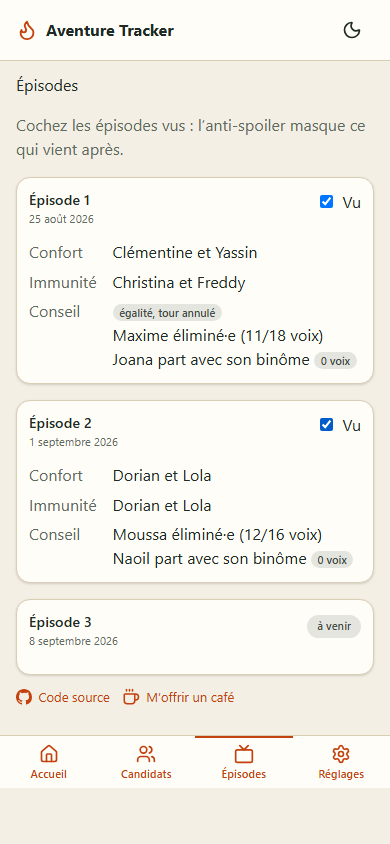
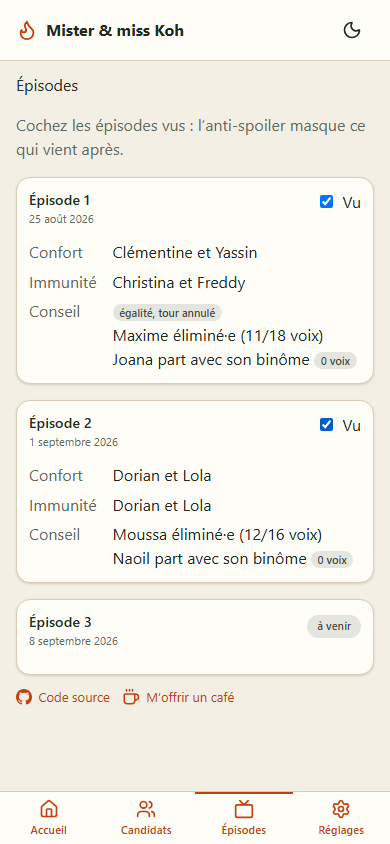
feat(interface): Mister & miss Koh, barre basse fixe, filtre et regroupement (#6)
Quatre demandes, quatre changements.

L'APPLICATION S'APPELLE « Mister & miss Koh » — en-tête, titre de page,
manifeste, à-propos, README. Le `short_name` est « Mister & miss » :
c'est ce que l'écran d'accueil affiche sous l'icône, et au-delà d'une
douzaine de caractères le système tronque.

LA BARRE BASSE EST FIXE. Elle ne l'était pas : le socle laisse
`[data-dwc=bottom-nav]` en `position: relative` et le dit — toutes les
apps n'en font pas une barre d'onglets. La coquille réservait déjà sa
hauteur en `padding-bottom`, ce qui rendait le défaut discret. Ici, la
barre est la navigation principale, et une navigation qui défile n'en est
plus une.

FILTRE PAR STATUT sur les candidats : tous, en jeu, sorti·e. Il se
combine avec la recherche par prénom.

REGROUPEMENT PAR DUO OU PAR TRIBU, selon ce que la saison EST. C'est une
particularité d'édition, pas une préférence d'affichage, et la question
se tranche sur les données : un tour de genre `linked` n'existe que là où
les destins sont liés. Une saison ordinaire n'en produit aucun et retombe
sur ses tribus de couleur. `groupingOf` le lit, avec ses tests.

Un duo n'apparaît qu'une fois RÉVÉLÉ par un départ, et pas avant
l'épisode qui l'a révélé — la source ne liste les duos nulle part. Les
autres se rangent sous « Duo non révélé », qui n'est pas un aveu de
manque mais l'état réel de ce qu'on sait.

Les captures d'installation sont refaites : elles portaient l'ancien nom.

diff --git a/src/features/contestants/ContestantsScreen.tsx b/src/features/contestants/ContestantsScreen.tsx
@@ -7,6 +7,76 @@ import { EmptyState } from '@mister-guiiug/dev-pwa-config/react/empty-state';
 import { useAppStore } from '../../store/useAppStore';
 import { useSpoilerLimit } from '../../hooks/useSpoilerLimit';
 import { inGame, lastAiredEpisode } from '../../domain/stats';
+import { groupingOf } from '../../domain/rules';
+import { isSpoiler } from '../../domain/spoiler';
+import type { Contestant, Referential } from '../../domain/referential';
+
+type Status = 'tous' | 'en-jeu' | 'sorti';
+
+interface Row extends Contestant {
+  inGame: boolean;
+  favorite: boolean;
+}
+
+interface Group {
+  key: string;
+  label: string;
+  rows: Row[];
+}
+
+/**
+ * Les groupes de l'édition suivie.
+ *
+ * PAR DUO OU PAR TRIBU, selon ce que la saison est — `groupingOf` le lit dans
+ * les données. Un duo n'apparaît que s'il a été RÉVÉLÉ par un départ, et pas
+ * avant l'épisode qui l'a révélé : la source ne liste les duos nulle part, on
+ * ne les connaît qu'a posteriori, et les afficher plus tôt divulgâcherait ce
+ * départ. Les autres se rangent sous « Duo non révélé », qui n'est pas un aveu
+ * de manque mais l'état réel de ce qu'on sait.
+ */
+function groupsOf(ref: Referential, rows: Row[], limit: number): Group[] {
+  const byId = new Map(rows.map(r => [r.id, r]));
+
+  if (groupingOf(ref) === 'pair') {
+    const groups: Group[] = [];
+    const placed = new Set<string>();
+
+    for (const pair of ref.pairs) {
+      if (isSpoiler(pair.revealEpisodeNumber, limit)) continue;
+      const members = pair.memberIds
+        .map(id => byId.get(id))
+        .filter((r): r is Row => r !== undefined);
+      if (members.length === 0) continue;
+      for (const m of members) placed.add(m.id);
+      groups.push({
+        key: pair.id,
+        label: pair.memberIds
+          .map(id => ref.contestants.find(c => c.id === id)?.displayName ?? '?')
+          .join(' et '),
+        rows: members,
+      });
+    }
+
+    const rest = rows.filter(r => !placed.has(r.id));
+    if (rest.length > 0) {
+      groups.push({ key: 'duo-inconnu', label: 'Duo non révélé', rows: rest });
+    }
+    return groups;
+  }
+
+  const groups: Group[] = [];
+  for (const team of ref.teams) {
+    const members = rows.filter(r => r.teamId === team.id);
+    if (members.length > 0) {
+      groups.push({ key: team.id, label: team.name, rows: members });
+    }
+  }
+  const rest = rows.filter(r => !r.teamId);
+  if (rest.length > 0) {
+    groups.push({ key: 'sans-tribu', label: 'Sans tribu', rows: rest });
+  }
+  return groups;
+}
 
 export function ContestantsScreen() {
   const referential = useAppStore(s => s.referential);
@@ -14,70 +84,97 @@ export function ContestantsScreen() {
   const toggleFavorite = useAppStore(s => s.toggleFavorite);
   const limit = useSpoilerLimit();
   const [query, setQuery] = useState('');
+  const [status, setStatus] = useState<Status>('tous');
 
-  const rows = useMemo(() => {
+  const groups = useMemo(() => {
     if (!referential) return [];
     const upTo = Math.min(limit, lastAiredEpisode(referential));
     const still = new Set(inGame(referential, upTo));
     const q = query.trim().toLowerCase();
-    return referential.contestants
-      .filter(c => !q || c.displayName.toLowerCase().includes(q))
+    const rows: Row[] = referential.contestants
       .map(c => ({
         ...c,
         inGame: still.has(c.id),
         favorite: favorites.includes(c.id),
-      }));
-  }, [referential, favorites, limit, query]);
+      }))
+      .filter(c => !q || c.displayName.toLowerCase().includes(q))
+      .filter(
+        c => status === 'tous' || (status === 'en-jeu' ? c.inGame : !c.inGame)
+      );
+    return groupsOf(referential, rows, limit);
+  }, [referential, favorites, limit, query, status]);
 
   if (!referential) return null;
+
+  const total = groups.reduce((n, g) => n + g.rows.length, 0);
+  // Un seul groupe qui contient tout le monde n'apprend rien : on le tait.
+  const showHeadings = groups.length > 1;
 
   return (
     <div className="stack">
       <h2>Candidats</h2>
-      <label className="field">
-        <span>Filtrer</span>
-        <input
-          type="search"
-          value={query}
-          onChange={e => setQuery(e.target.value)}
-          placeholder="Un prénom…"
-          autoComplete="off"
-        />
-      </label>
-      {rows.length === 0 ? (
+      <div className="filters">
+        <label className="field">
+          <span>Filtrer</span>
+          <input
+            type="search"
+            value={query}
+            onChange={e => setQuery(e.target.value)}
+            placeholder="Un prénom…"
+            autoComplete="off"
+          />
+        </label>
+        <label className="field">
+          <span>Statut</span>
+          <select
+            value={status}
+            onChange={e => setStatus(e.target.value as Status)}
+          >
+            <option value="tous">Tous</option>
+            <option value="en-jeu">En jeu</option>
+            <option value="sorti">Sorti·e</option>
+          </select>
+        </label>
+      </div>
+      {total === 0 ? (
         <EmptyState
           title="Aucun candidat"
-          description="Aucun nom ne correspond."
+          description="Aucun nom ne correspond à ce filtre."
         />
       ) : (
-        <ul className="list">
-          {rows.map(c => (
-            <li key={c.id} className="row">
-              <Link to={`/candidats/${c.id}`}>{c.displayName}</Link>
-              <Badge tone={c.inGame ? 'success' : 'muted'} size="xs">
-                {c.inGame ? 'en jeu' : 'sorti·e'}
-              </Badge>
-              <Button
-                variant="ghost"
-                size="sm"
-                iconOnly
-                aria-label={
-                  c.favorite
-                    ? `Retirer ${c.displayName} des favoris`
-                    : `Ajouter ${c.displayName} aux favoris`
-                }
-                aria-pressed={c.favorite}
-                onClick={() => toggleFavorite(c.id)}
-              >
-                <Star
-                  size={18}
-                  aria-hidden
-                  fill={c.favorite ? 'currentColor' : 'none'}
-                />
-              </Button>
-            </li>
-          ))}
-        </ul>
+        groups.map(group => (
+          <section key={group.key}>
+            {showHeadings && <h3 className="group-title">{group.label}</h3>}
+            <ul className="list">
+              {group.rows.map(c => (
+                <li key={c.id} className="row">
+                  <Link to={`/candidats/${c.id}`}>{c.displayName}</Link>
+                  <Badge tone={c.inGame ? 'success' : 'muted'} size="xs">
+                    {c.inGame ? 'en jeu' : 'sorti·e'}
+                  </Badge>
+                  <Button
+                    variant="ghost"
+                    size="sm"
+                    iconOnly
+                    aria-label={
+                      c.favorite
+                        ? `Retirer ${c.displayName} des favoris`
+                        : `Ajouter ${c.displayName} aux favoris`
+                    }
+                    aria-pressed={c.favorite}
+                    onClick={() => toggleFavorite(c.id)}
+                  >
+                    <Star
+                      size={18}
+                      aria-hidden
+                      fill={c.favorite ? 'currentColor' : 'none'}
+                    />
+                  </Button>
+                </li>
+              ))}
+            </ul>
+          </section>
+        ))
       )}
     </div>
   );

diff --git a/src/styles.css b/src/styles.css
@@ -82,7 +82,22 @@ a {
   min-height: 100dvh;
   display: flex;
   flex-direction: column;
-  padding-bottom: 4.5rem; /* la barre basse */
+  padding-bottom: 4.5rem; /* la place que la barre fixe occupe */
+}
+
+/* La barre basse est la navigation PRINCIPALE : elle doit rester atteignable
+   sans remonter la page. Le socle la laisse en `position: relative` et le dit
+   — « non stylé : cibler [data-dwc=bottom-nav] » — parce que toutes les apps
+   n'en font pas une barre d'onglets. Ici, si.
+
+   Le `padding-bottom` de la coquille réserve déjà sa hauteur, sans quoi la
+   barre masquerait la fin de chaque écran. */
+[data-dwc='bottom-nav'] {
+  position: fixed;
+  inset-inline: 0;
+  bottom: 0;
+  z-index: 20;
+  background: var(--surface);
 }
 
 [data-dwc='app-header'] {
@@ -242,4 +257,23 @@ a {
   border-left: 3px solid var(--warn);
   background: color-mix(in srgb, var(--warn) 10%, var(--surface));
   border-radius: 0 var(--radius) var(--radius) 0;
+}
+
+/* Deux filtres sur une ligne quand la place le permet, l'un sous l'autre
+   sinon : un `select` étroit à côté d'un champ de recherche est illisible. */
+.filters {
+  display: flex;
+  flex-wrap: wrap;
+  gap: 0.75rem;
+}
+
+.filters .field {
+  flex: 1 1 12rem;
+}
+
+.group-title {
+  margin: 1.25rem 0 0.4rem;
+  font-size: 0.95rem;
+  font-weight: 700;
+  color: var(--text-muted);
 }

diff --git a/src/domain/rules.test.ts b/src/domain/rules.test.ts
@@ -1,6 +1,6 @@
 import { describe, expect, it } from 'vitest';
 import { DEMO_REFERENTIAL } from '../backend/demo';
-import { linkedDepartures, ruleApplies } from './rules';
+import { groupingOf, linkedDepartures, ruleApplies } from './rules';
 import type { Departure, Referential } from './referential';
 
 // Donnée fictive de démonstration.
@@ -96,5 +96,22 @@ describe('linkedDepartures — la règle est lue, jamais présumée', () => {
   it('un binôme déjà sorti ne repart pas une seconde fois', () => {
     // Dans le référentiel de démonstration, Hina est déjà partie à l'épisode 1.
     expect(linkedDepartures(ref, voteOut('Gaël', 1))).toEqual([]);
+  });
+});
+
+describe('groupingOf', () => {
+  it('une saison à destins liés se regroupe par DUO', () => {
+    // Le tour `linked` n'existe que là où le binôme suit l'éliminé : c'est la
+    // donnée qui tranche, pas le nom de la saison.
+    expect(groupingOf(DEMO_REFERENTIAL)).toBe('pair');
+  });
+
+  it('sans destin lié ni duo, on retombe sur les tribus', () => {
+    const ordinaire = {
+      ...DEMO_REFERENTIAL,
+      pairs: [],
+      rounds: DEMO_REFERENTIAL.rounds.filter(r => r.kind !== 'linked'),
+    };
+    expect(groupingOf(ordinaire)).toBe('team');
   });
 });

diff --git a/index.html b/index.html
@@ -41,17 +41,17 @@
       name="apple-mobile-web-app-status-bar-style"
       content="black-translucent"
     />
-    <meta name="apple-mobile-web-app-title" content="Aventure Tracker" />
+    <meta name="apple-mobile-web-app-title" content="Mister & miss Koh" />
     <meta
       name="description"
       content="Suivez une saison d’aventure : candidats, épisodes, épreuves, conseils et votes — avec vos notes privées et vos favoris. Non officiel."
     />
-    <title>Aventure Tracker</title>
+    <title>Mister & miss Koh</title>
     <!-- __SEO_HOME_URL__ et __SEO_LOGO_URL__ sont remplis au build par
          pwaSeoPlugin() (vite.config.ts). -->
     <link rel="canonical" href="__SEO_HOME_URL__" />
     <meta property="og:type" content="website" />
-    <meta property="og:title" content="Aventure Tracker" />
+    <meta property="og:title" content="Mister & miss Koh" />
     <meta
       property="og:description"
       content="Suivez une saison d’aventure : candidats, épisodes, conseils et votes, avec vos notes privées. Non officiel."

diff --git a/src/domain/rules.ts b/src/domain/rules.ts
@@ -57,3 +57,24 @@ export function linkedDepartures(
     },
   ];
 }
+
+/** Comment une édition regroupe naturellement ses candidats. */
+export type Grouping = 'pair' | 'team';
+
+/**
+ * Par duo, ou par tribu ?
+ *
+ * C'est une PARTICULARITÉ D'ÉDITION, pas une préférence d'affichage : une
+ * saison ordinaire répartit ses candidats en tribus de couleur ; celle-ci les
+ * lie deux à deux, et le tableau des votes le montre en réservant une colonne
+ * au départ du binôme.
+ *
+ * La question se tranche donc sur les DONNÉES, jamais sur le nom de la
+ * saison : un tour de genre `linked` n'existe que là où les destins sont liés.
+ * Une saison sans destin lié n'en produit aucun, et retombe sur ses tribus.
+ */
+export function groupingOf(ref: Referential): Grouping {
+  const linked =
+    ref.rounds.some(r => r.kind === 'linked') || ref.pairs.length > 0;
+  return linked ? 'pair' : 'team';
+}

diff --git a/src/features/settings/SettingsScreen.tsx b/src/features/settings/SettingsScreen.tsx
@@ -170,10 +170,10 @@ export function SettingsScreen() {
       <Card>
         <CardHeader title="À propos" />
         <p className="muted">
-          Aventure Tracker est une application non officielle, sans lien avec
-          les ayants droit de l’émission. Les données référentielles sont des
-          faits relevés sur une source collaborative — chacun porte sa page, sa
-          révision et sa date de lecture — et ne sont jamais présentés comme
+          Mister &amp; miss Koh est une application non officielle, sans lien
+          avec les ayants droit de l’émission. Les données référentielles sont
+          des faits relevés sur une source collaborative — chacun porte sa page,
+          sa révision et sa date de lecture — et ne sont jamais présentés comme
           officiels. Version {__APP_VERSION__}.
         </p>
       </Card>

diff --git a/vite.config.ts b/vite.config.ts
@@ -115,8 +115,8 @@ export default defineConfig(({ command }) => {
         },
         manifest: {
           id: basePath,
-          name: 'Aventure Tracker',
-          short_name: 'Aventure',
+          name: 'Mister & miss Koh',
+          short_name: 'Mister & miss',
           description:
             'Suivez une saison d’aventure : candidats, épisodes, épreuves, conseils et votes — avec vos notes privées et vos favoris. Non officiel.',
           theme_color: '#c2410c',

diff --git a/src/components/Layout.tsx b/src/components/Layout.tsx
@@ -48,7 +48,7 @@ export function Layout() {
   return (
     <div className="app-shell">
       <AppHeader
-        title="Aventure Tracker"
+        title="Mister & miss Koh"
         leading={
           <Flame size={22} aria-hidden style={{ color: 'var(--primary)' }} />
         }

diff --git a/README.md b/README.md
@@ -1,4 +1,4 @@
-# mister-miss-koh — « Aventure Tracker »
+# mister-miss-koh — « Mister & miss Koh »
 
 PWA de suivi des saisons d'aventure — en cours comme passées : candidats,
 épisodes, épreuves, conseils, votes et départs, avec notes personnelles,
